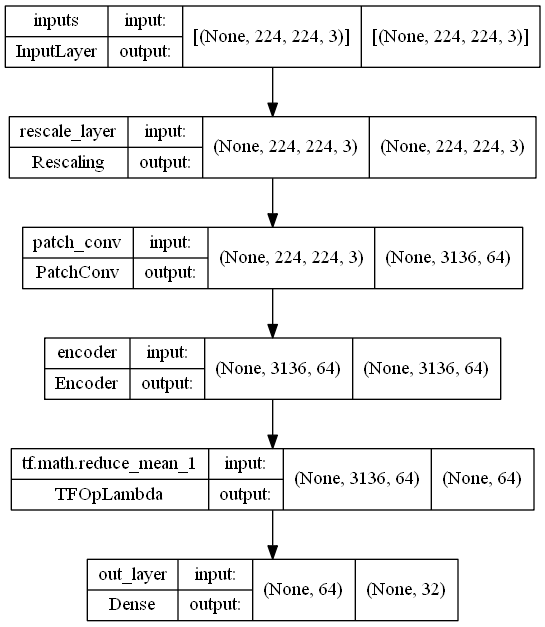
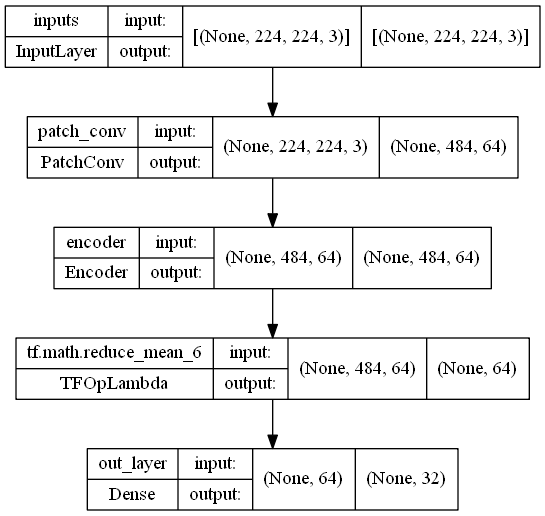
Add changes

Changed region(s): [[0.0, 0.0, 0.9982, 0.9922]]

diff --git a/transformer.py b/transformer.py
@@ -18,6 +18,7 @@ class AddPositionEmbs(layers.Layer):
   def call(self, inputs, inputs_positions=None):
     # inputs.shape is (batch_size, seq_len, emb_dim).
     pos_embedding = tf.cast(self.pos_embedding, inputs.dtype)
+    #print('Inputs shape:', inputs.shape, 'Pos:', pos_embedding.shape)
     return inputs + pos_embedding
 
 class MLPBlock(layers.Layer):
@@ -106,7 +107,7 @@ class PatchConv(layers.Layer):
 class ViTModel(tf.keras.Model):
   def __init__(self, class_types, transformer_layers, patch_size, hidden_size, num_heads, mlp_dim, shape=(224, 224, 3)):
     super(ViTModel, self).__init__(name='ViTModel')
-    self.rescale_layer = layers.Rescaling(1./255, name='rescale_layer')
+    #self.rescale_layer = layers.Rescaling(1./255, name='rescale_layer')
     #self.rescale_layer = tf.keras.Sequential([layers.Rescaling(1./255, name='rescale_layer')])
     self.patch_conv_layer = PatchConv(patch_size, hidden_size)
     self.encoder = Encoder(transformer_layers, mlp_dim, num_heads)
@@ -124,7 +125,7 @@ class ViTModel(tf.keras.Model):
     result = self.out_layer(result) """
   
   def call(self, x):
-    x = self.rescale_layer(x)
+    #x = self.rescale_layer(x)
     x = self.patch_conv_layer(x)
     x = self.encoder(x)
     x = tf.math.reduce_mean(x, axis=1, name='reduce_mean')
@@ -135,12 +136,12 @@ class ViTModel(tf.keras.Model):
   def expand(self, input_shape):
     x = layers.Input(shape=input_shape[1:], name='inputs')
     return tf.keras.Model(inputs=[x], outputs=self.call(x))
-  
+
   def predict_class(self, x):
     return tf.argmax(self.call(x), axis=1)
 
   def vectorize(self, x, reduce=True):
-    x = self.rescale_layer(x)
+    #x = self.rescale_layer(x)
     x = self.patch_conv_layer(x)
     x = self.encoder(x)
     if reduce:

diff --git a/tf_functions.py b/tf_functions.py
@@ -101,7 +101,11 @@ def ViTModel(class_types, transformer_layers, patch_size, hidden_size, num_heads
   #  final part (mlp to classification)
   im_representation = tf.reduce_mean(encoder_out, axis=1)  # (1,) or (1,2)
 
-  logits = layers.Dense(units=class_types, name='Head', kernel_initializer=tf.keras.initializers.zeros)(im_representation) # !!! important !!! activation is linear 
+  logits = layers.Dense(
+    units=class_types,
+    name='Head'
+    kernel_initializer=tf.keras.initializers.zeros
+  )(im_representation) # !!! important !!! activation is linear 
   return tf.keras.Model(inputs=inputs, outputs=logits)
 
 
